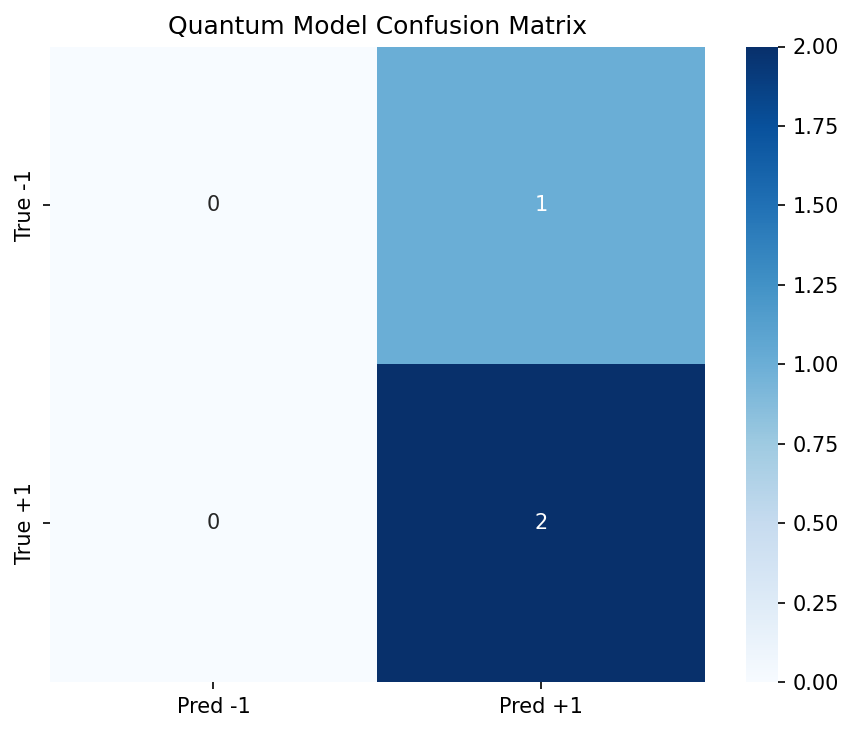
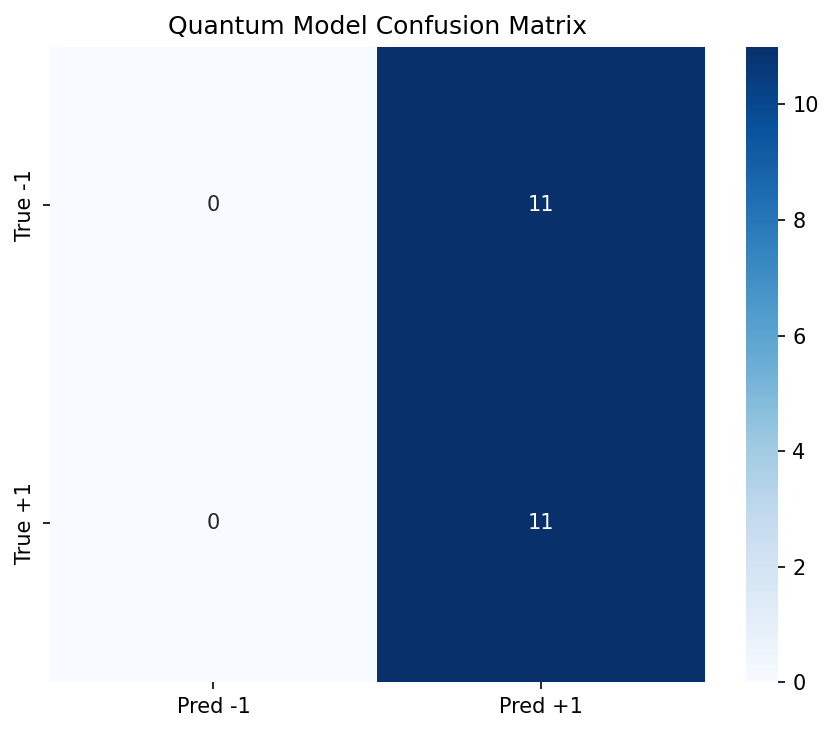
Fix: Prediction fixes

diff --git a/QCNN/models/QCNNModel.py b/QCNN/models/QCNNModel.py
@@ -73,23 +73,40 @@ class PureQuantumNativeCNN:
 
         params = {}
 
-        # Convolutional layer: SHARED 2x2 kernel per layer.
-        # Each kernel acts on 4 qubits with shape (4, depth, 2) => [RY, RZ] angles per depth.
-        # depth=2 improves expressivity and accuracy significantly.
+        # ---------------------------------------------------------------------
+        # Xavier/Glorot Initialization for Quantum Parameters
+        # limit = sqrt(6 / (fan_in + fan_out))
+        # ---------------------------------------------------------------------
+
+        # Convolutional layer: acts on 4 qubits, produces 4 active qubits (shared weights)
         conv_depth = 2
         kernel_shape = (4, conv_depth, 2)
+        conv_limit = np.sqrt(6.0 / (4 + 4)) # ~0.866
+        
         for layer in range(self.config.n_conv_layers):
-            kernel_tensor = pnp.array(np.random.normal(0, 0.1, kernel_shape), requires_grad=True)
+            kernel_tensor = pnp.array(
+                np.random.uniform(-conv_limit, conv_limit, kernel_shape), 
+                requires_grad=True
+            )
             params[f'quantum_conv_kernel_{layer}'] = kernel_tensor
 
         # Pooling layer parameters:
-        # We consume 3 angles per (keep, discard) pair in QuantumNativePooling.quantum_unitary_pooling.
+        # fan_in = num_qubits, fan_out = num_qubits/2
         max_pairs = self.num_qubits // 2
         pool_angles = 3 * max_pairs
-        params['quantum_pooling'] = pnp.array(np.random.normal(0, 0.1, pool_angles), requires_grad=True)
+        pool_limit = np.sqrt(6.0 / (self.num_qubits + (self.num_qubits // 2)))
+        params['quantum_pooling'] = pnp.array(
+            np.random.uniform(-pool_limit, pool_limit, pool_angles), 
+            requires_grad=True
+        )
 
-        # Fully connected classifier layer (on up to last 2 active qubits)
-        params['quantum_classifier'] = pnp.array(np.random.normal(0, 0.1, 8), requires_grad=True)
+        # Fully connected classifier layer: 
+        # acts on up to 2 qubits, maps to 1 readout
+        class_limit = np.sqrt(6.0 / (2 + 1)) # ~1.414
+        params['quantum_classifier'] = pnp.array(
+            np.random.uniform(-class_limit, class_limit, 8), 
+            requires_grad=True
+        )
 
         return params
 

diff --git a/QCNN/utils/dataset_loader.py b/QCNN/utils/dataset_loader.py
@@ -365,9 +365,38 @@ def load_dataset(source: Union[str, Tuple[np.ndarray, np.ndarray]],
     else:
         raise ValueError(f"Unknown dataset type: {dataset_type}")
     
-    print(f"Loaded dataset: {X.shape[0]} samples, {X.shape[1:]} features")
-    print(f"Label distribution: {dict(zip(*np.unique(y, return_counts=True)))}")
-    
+    # 3. Universal balancing for One-vs-Rest
+    if target_digit is not None:
+        print(f"Applying universal balancing for one-vs-rest (target digit {target_digit})...")
+        mask_pos = (y == target_digit)
+        X_pos, y_pos = X[mask_pos], y[mask_pos]
+        mask_neg = (y != target_digit)
+        X_neg, y_neg = X[mask_neg], y[mask_neg]
+        
+        n_pos = len(X_pos)
+        n_neg = len(X_neg)
+        
+        if n_pos > 0 and n_neg > 0:
+            if n_neg > n_pos:
+                # Downsample negative class
+                idx_neg = np.random.choice(n_neg, n_pos, replace=False)
+                X_neg, y_neg = X_neg[idx_neg], y_neg[idx_neg]
+                print(f"  Balanced dataset: {n_pos} positive vs {n_pos} negative samples (downsampled from {n_neg})")
+            elif n_pos > n_neg:
+                # Downsample positive class
+                idx_pos = np.random.choice(n_pos, n_neg, replace=False)
+                X_pos, y_pos = X_pos[idx_pos], y_pos[idx_pos]
+                print(f"  Balanced dataset: {n_neg} positive vs {n_neg} negative samples (downsampled from {n_pos})")
+                
+            X = np.concatenate([X_pos, X_neg])
+            y = np.concatenate([y_pos, y_neg])
+            
+            # Shuffle
+            idx_shuffle = np.random.permutation(len(X))
+            X, y = X[idx_shuffle], y[idx_shuffle]
+        else:
+            print(f"  Warning: Could not balance dataset. Positive samples: {n_pos}, Negative samples: {n_neg}")
+
     # Preprocess for quantum circuit
     X_processed, y_processed = preprocess_for_quantum(
         X, y, n_qubits=n_qubits, image_size=image_size, normalization=normalization,

diff --git a/QCNN/encoding/QEncoder.py b/QCNN/encoding/QEncoder.py
@@ -60,12 +60,25 @@ class PureQuantumEncoder:
                 data = padded
         
         # Normalize for quantum amplitudes (must sum to 1)
+        eps = 1e-15
         if is_batched:
             norms = pnp.linalg.norm(data, axis=1, keepdims=True)
-            data_norm = data / (norms + 1e-12)
+            # Find indices of all-zero vectors in batch
+            zero_masks = (norms < eps).flatten()
+            if any(zero_masks):
+                # Replace zero vectors with a valid basis state (first element = 1)
+                # to prevent NaN gradients and valid state errors
+                data[zero_masks, 0] = 1.0
+                norms = pnp.linalg.norm(data, axis=1, keepdims=True)
+            data_norm = data / norms
         else:
             norm = pnp.linalg.norm(data)
-            data_norm = data / (norm + 1e-12)
+            if norm < eps:
+                # Replace with first basis state
+                data = pnp.zeros_like(data)
+                data[0] = 1.0
+                norm = 1.0
+            data_norm = data / norm
         
         # Pure quantum encoding - natively supports batched input
         qml.AmplitudeEmbedding(features=data_norm, wires=wires, normalize=True)
@@ -92,10 +105,10 @@ class PureQuantumEncoder:
             x = data[:L]
             
         if x.size > 0:
-            x = pnp.clip(x, -1.0, 1.0)  # preserve sign, bound range
+            x = pnp.clip(x, 0.0, 1.0)  # assume [0, 1] normalized input
 
-        angles_z = pnp.pi * x           # RZ(π x) ∈ [-π, π]
-        angles_y = 0.5 * pnp.pi * x     # RY((π/2) x) ∈ [-π/2, π/2]
+        angles_z = pnp.pi * x           # RZ(π x) ∈ [0, π]
+        angles_y = pnp.pi * x           # RY(π x) ∈ [0, π]
 
         # Layer 1: Individual qubit rotations
         for i in range(L):

diff --git a/QCNN/training/Qtrainer.py b/QCNN/training/Qtrainer.py
@@ -70,7 +70,15 @@ class QuantumNativeTrainer:
         p = (1.0 + z) * 0.5
         y01 = (pnp.array(labels_pm1) + 1.0) * 0.5
         eps = 1e-7
-        return -pnp.mean(y01 * pnp.log(p + eps) + (1.0 - y01) * pnp.log(1.0 - p + eps))
+        
+        # Use instance weights calculated in train_pure_quantum_cnn
+        pos_w = getattr(self, '_pos_weight', 1.0)
+        neg_w = getattr(self, '_neg_weight', 1.0)
+        
+        loss_pos = y01 * pnp.log(p + eps) * pos_w
+        loss_neg = (1.0 - y01) * pnp.log(1.0 - p + eps) * neg_w
+        
+        return -pnp.mean(loss_pos + loss_neg)
 
     def train_pure_quantum_cnn(self, model: PureQuantumNativeCNN, 
                                X_train: np.ndarray, y_train: np.ndarray,
@@ -152,6 +160,19 @@ class QuantumNativeTrainer:
         # was used during training and internal accuracy computation.
         model._quantum_preprocessed_train = X_train
         model._quantum_preprocessed_test = X_test
+        
+        # Calculate class weights for weighted BCE loss
+        pos_count = np.sum(y_train == 1)
+        neg_count = np.sum(y_train == -1)
+        total = len(y_train)
+        
+        if pos_count > 0 and neg_count > 0:
+            self._pos_weight = total / (2.0 * pos_count)
+            self._neg_weight = total / (2.0 * neg_count)
+            print(f"  Class Weights: +1 (Target): {self._pos_weight:.2f} | -1 (Rest): {self._neg_weight:.2f}")
+        else:
+            self._pos_weight = 1.0
+            self._neg_weight = 1.0
         
         print("Starting Training")
         print("="*50)

diff --git a/main.py b/main.py
@@ -317,6 +317,22 @@ def main(train_sample_size=None, use_bce=True, dataset_path=None, dataset_type='
         plt.close()
         print(f" ROC curve saved as '{roc_path}'")
         
+        # Save Precision-Recall Curve
+        precision_vals, recall_vals, _ = precision_recall_curve(y_test_bin, prob_scores)
+        pr_auc = auc(recall_vals, precision_vals)
+        pr_path = os.path.join(roc_dir.replace('ROC_Curve', 'Evaluation_Metrics'), 'quantum_pr_curve.png')
+        plt.figure(figsize=(6, 5))
+        plt.plot(recall_vals, precision_vals, color='blue', lw=2, label=f'PR curve (area = {pr_auc:.2f})')
+        plt.xlabel('Recall (Sensitivity)')
+        plt.ylabel('Precision')
+        plt.title('Precision-Recall Curve')
+        plt.legend(loc="lower left")
+        plt.grid(True, alpha=0.3)
+        plt.tight_layout()
+        plt.savefig(pr_path, dpi=150, bbox_inches='tight')
+        plt.close()
+        print(f" Precision-Recall curve saved as '{pr_path}'")
+        
         # Save Precision-Recall metrics bar chart
         metrics_dir = os.path.join(graphs_dir, 'Evaluation_Metrics')
         os.makedirs(metrics_dir, exist_ok=True)

diff --git a/QCNN/layers/QuanvLayer.py b/QCNN/layers/QuanvLayer.py
@@ -125,7 +125,7 @@ class QuanvolutionalLayer:
         # Normalize to [0, 2π] if not already
         img_min, img_max = image.min(), image.max()
         if img_max - img_min > 1e-10:
-            image = (image - img_min) / (img_max - img_min) * 2 * np.pi
+            image = (image - img_min) / (img_max - img_min) * np.pi
 
         patches = self.extract_patches(image)
 
@@ -307,7 +307,7 @@ def _quanv_worker_task(args):
     h, w = img.shape
     img_min, img_max = img.min(), img.max()
     if img_max - img_min > 1e-10:
-        img = (img - img_min) / (img_max - img_min) * 2 * np.pi
+        img = (img - img_min) / (img_max - img_min) * np.pi
 
     patches = []
     # Local worker cache for unique patches within THIS image

diff --git a/QCNN/utils/data_preprocessing.py b/QCNN/utils/data_preprocessing.py
@@ -3,7 +3,7 @@ from typing import Tuple, Optional
 
 
 def normalize_to_quantum_range(data: np.ndarray, 
-                               target_range: Tuple[float, float] = (0, 2 * np.pi),
+                               target_range: Tuple[float, float] = (0, 1),
                                method: str = 'minmax') -> np.ndarray:
     """
     Normalize data to quantum-compatible range for angle encoding.
